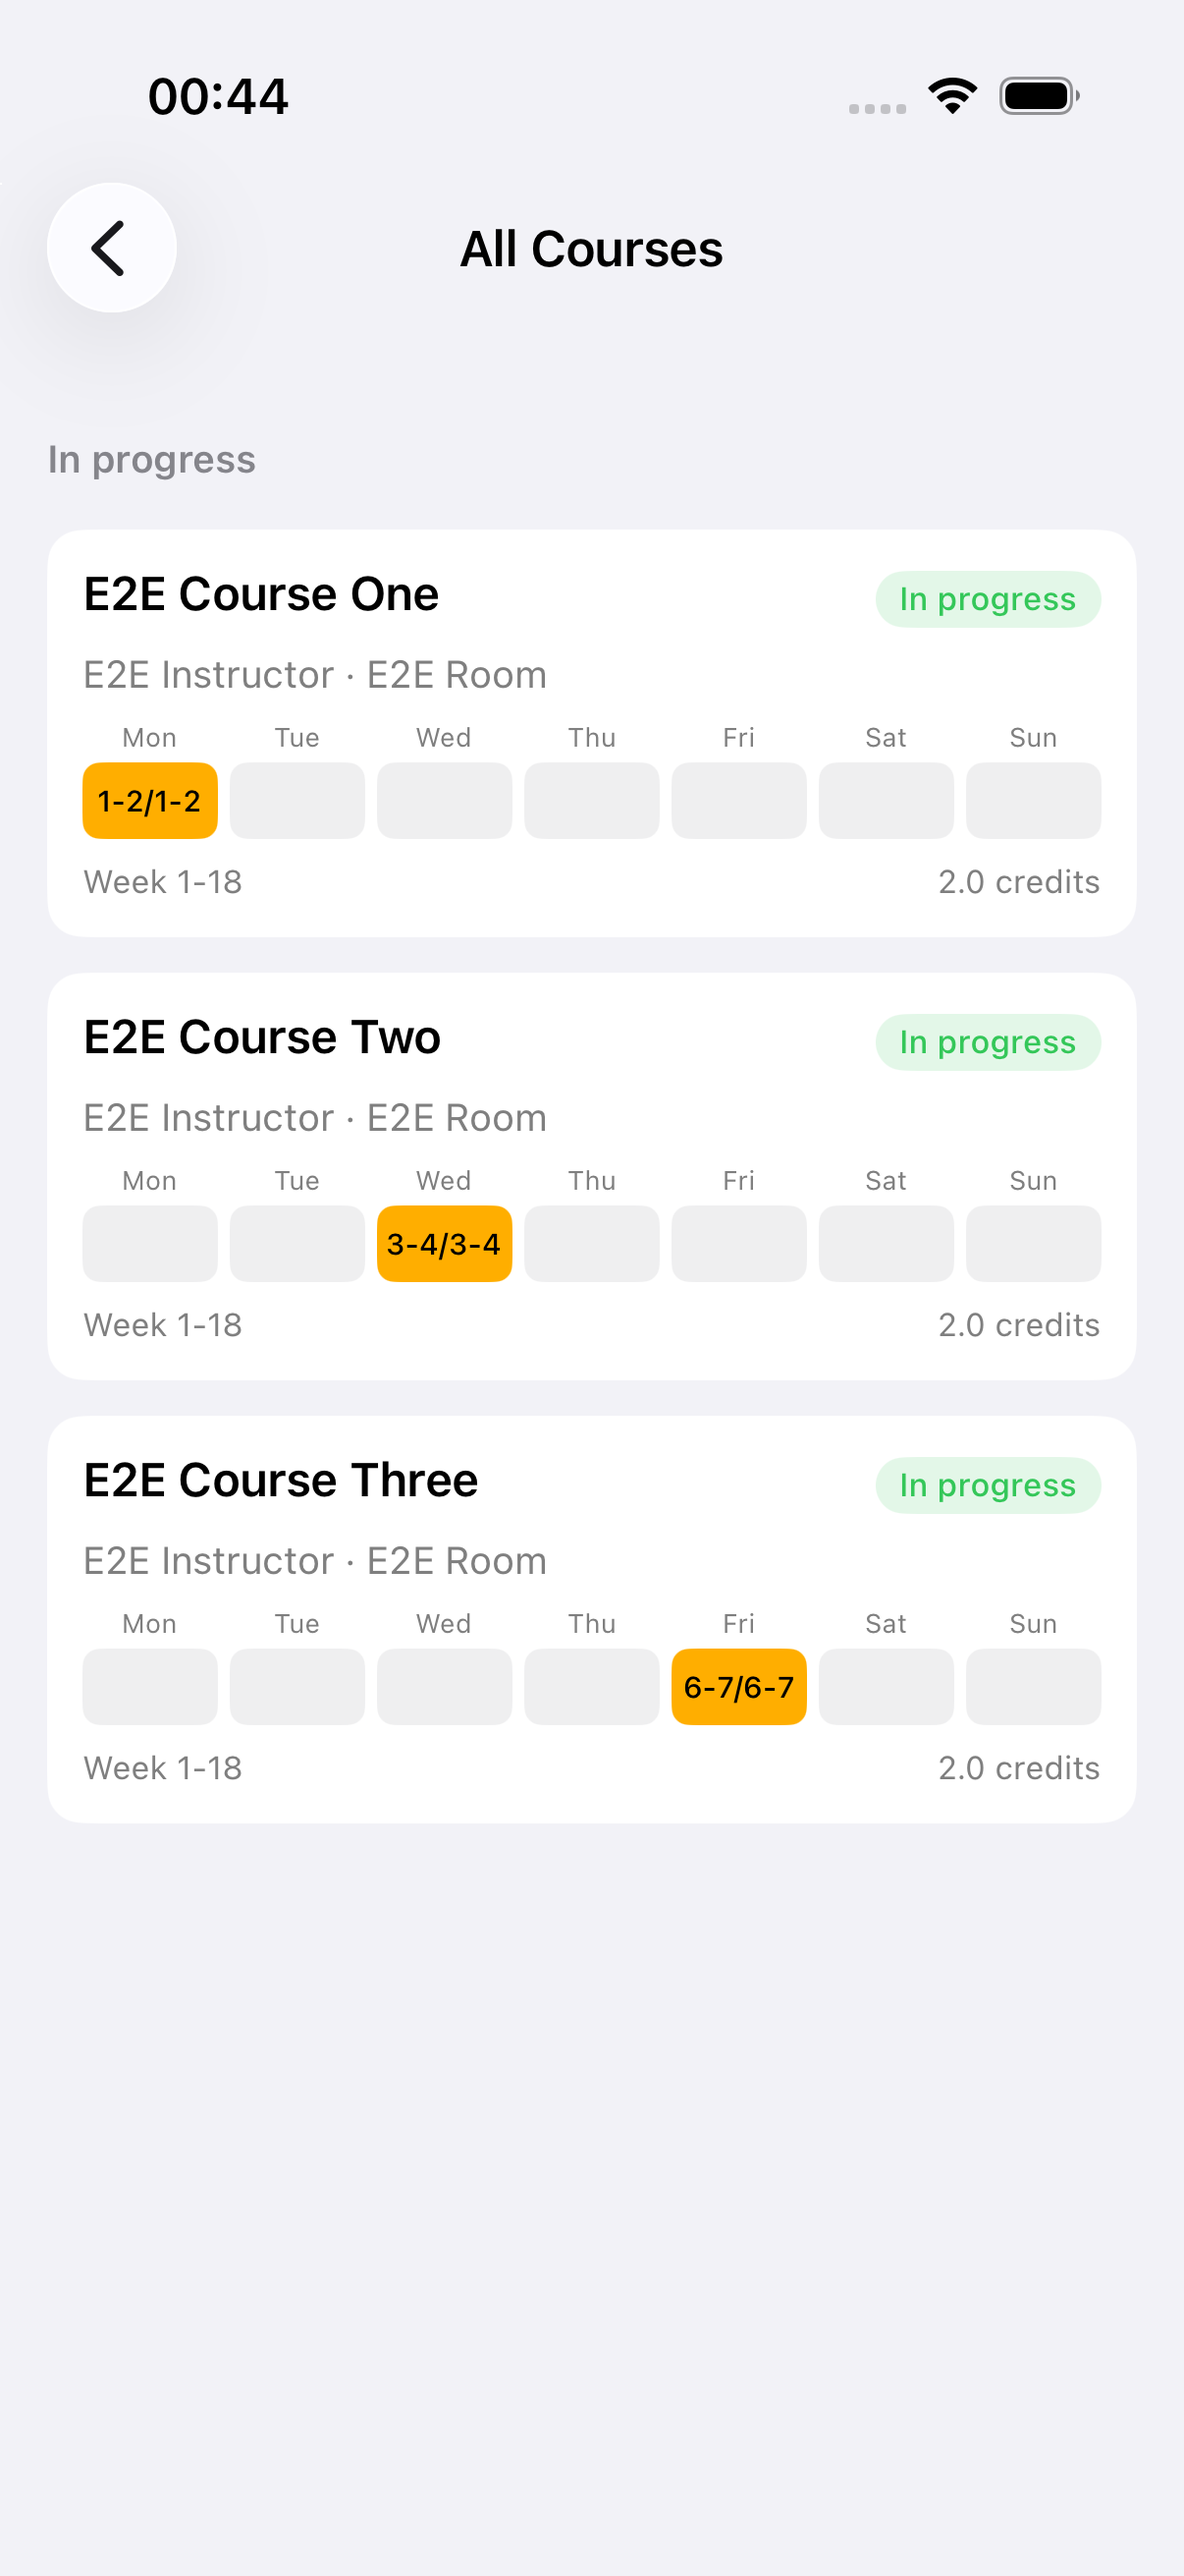
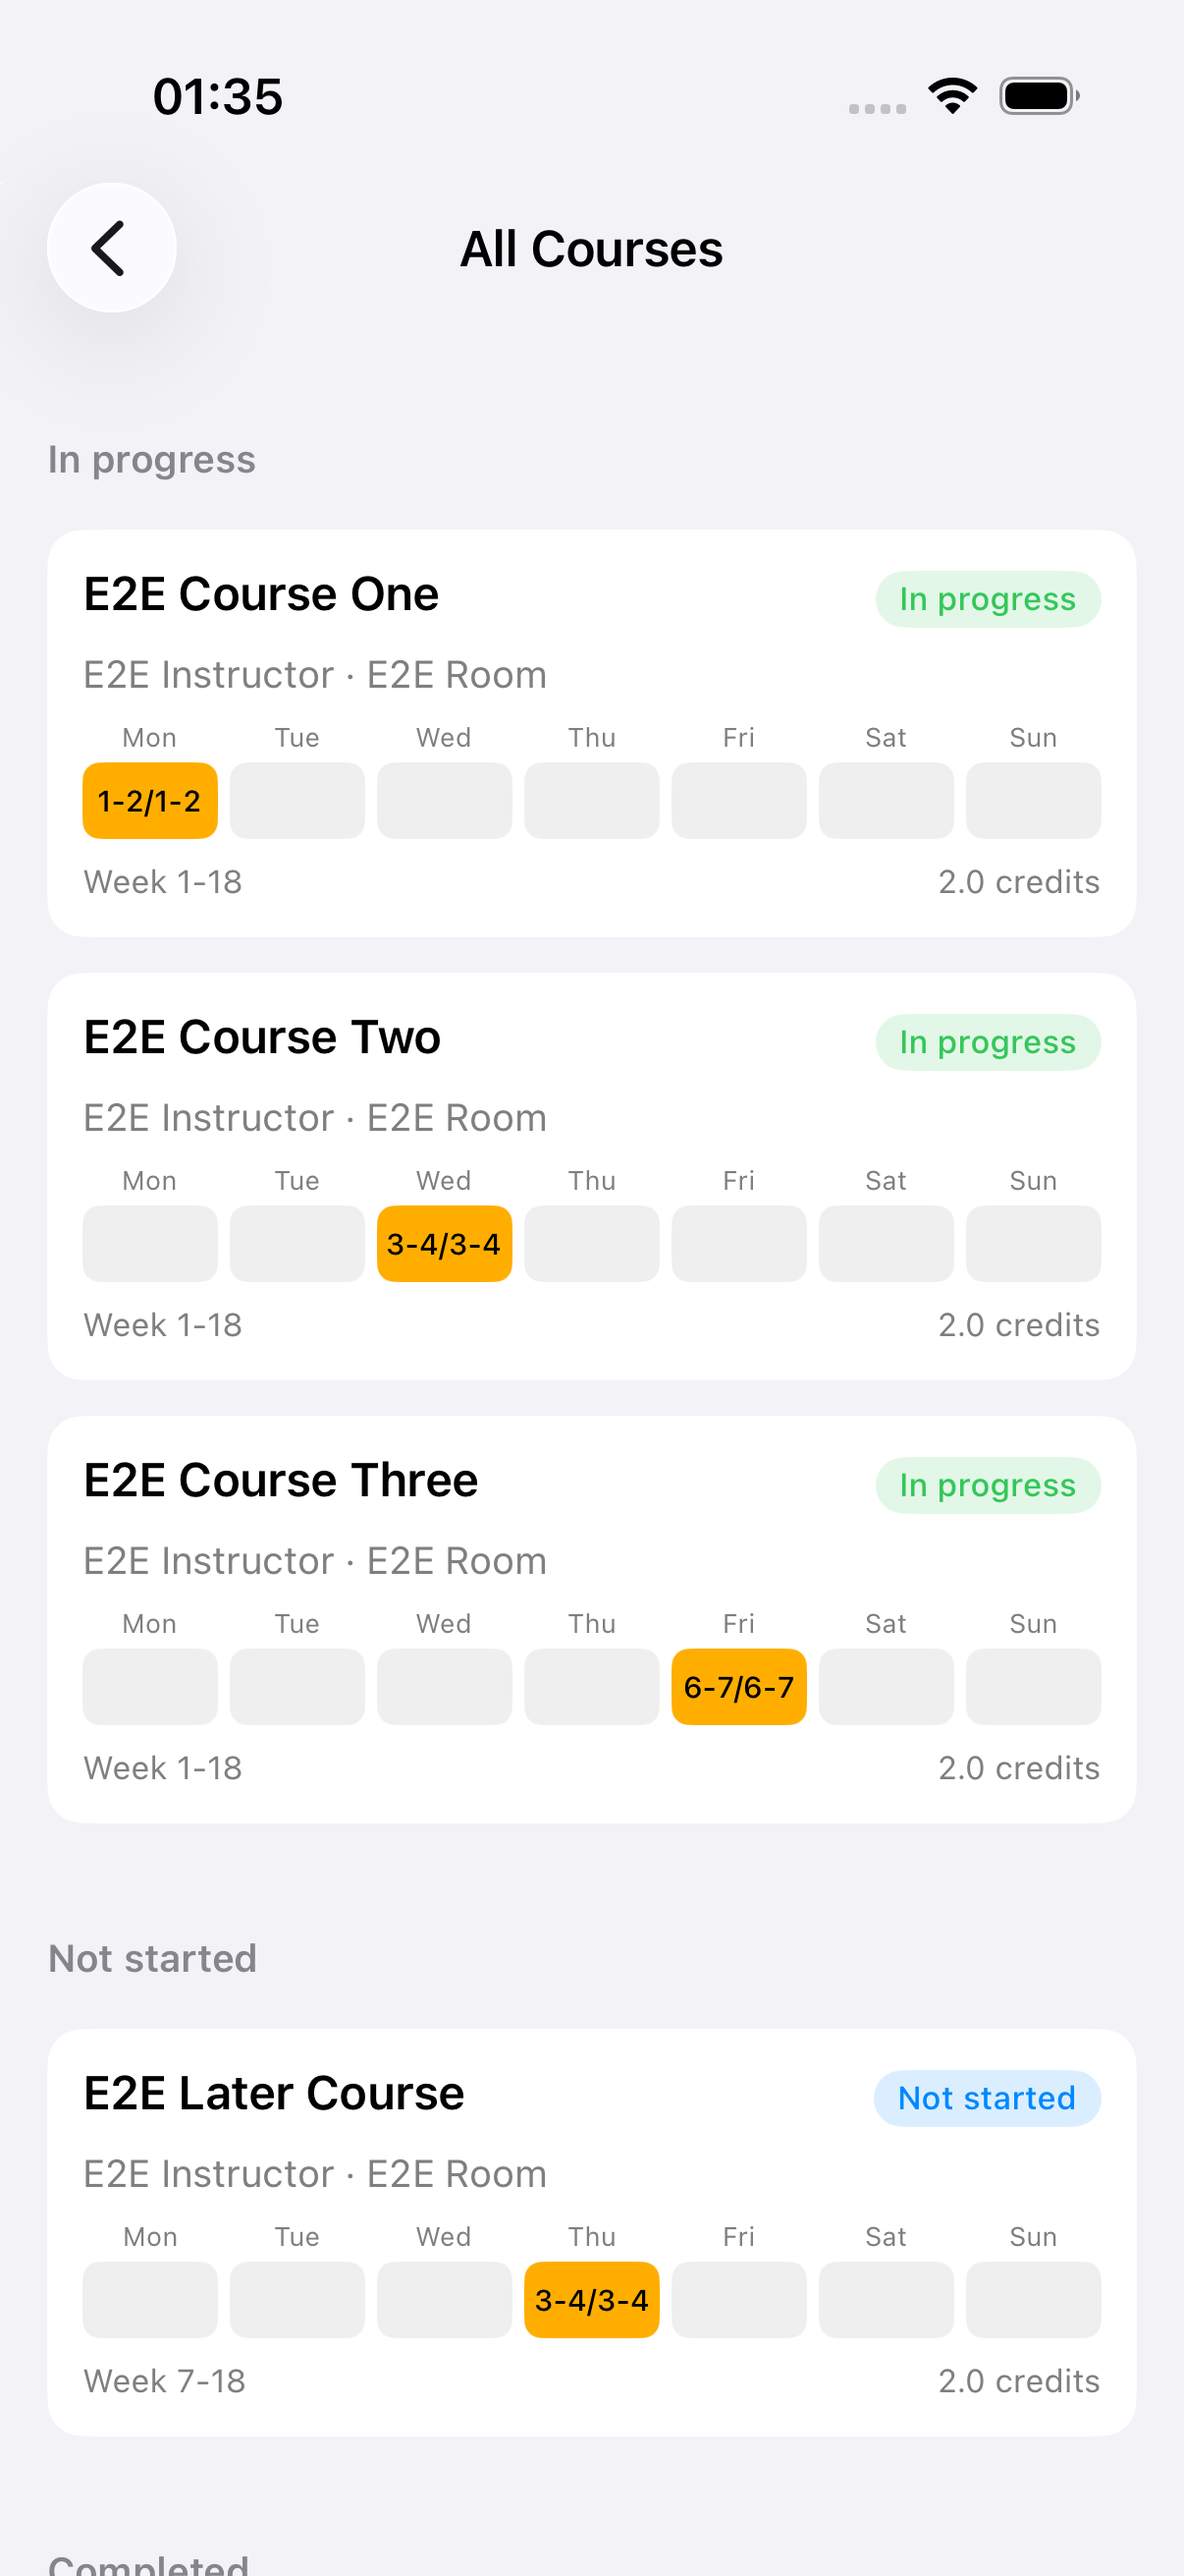
docs(tasks): add the iOS swipe-up before/after evidence
Workspace-Issue: whu-ham/ham-workspace#18

diff --git a/tasks/course-all-list-verification.md b/tasks/course-all-list-verification.md
@@ -56,18 +56,34 @@ Row content and order are identical: name + status badge on the first line, teac
 second, the seven weekday cells on the third (filled with the course colour where the course meets),
 and week range + credit on the fourth.
 
-### 4. The already-taken section (reached by scrolling / swiping up)
+### 4. Swiping up reveals the courses already taken — proven on both platforms
 
-![Already-taken section, Android](assets/all-course-list-android-completed.png)
+**iOS, before and after the swipe.** The case captures the page, asserts the already-taken course is
+*absent* before the gesture (`then(.showsNone([Seed.courseAlreadyTaken]))`) and *present* after it,
+then captures the page again.
 
-On Android the seeded data covers all three states, and this capture is taken after swiping up:
-进行中 is followed by 未开始 and then 已上过 last (`E2E Done Course`, weeks 1-3 of a term in week 4),
-which is the behaviour the requirement asks for.
+![iOS before and after the swipe](assets/parity-5-ios-swipe-before-after.png)
 
-The iOS E2E seed pins every seeded course to the current week, so iOS shows the in-progress section
-only — the section *order* on iOS is pinned by `CourseAllListViewModel.buildSections` (the same
-0/1/2 ordering as Android) rather than by a capture. This is the one parity item that is proven by
-code and by the Android capture, not by an iOS capture.
+**The same gesture on both platforms.** Left: iOS after swiping up. Right: Android after swiping up.
+
+![iOS and Android after the swipe](assets/parity-6-swipe-completed-ios-android.png)
+
+**The already-taken section at readable size.**
+
+![Already-taken section detail](assets/parity-7-completed-section-detail.png)
+
+How the iOS side is made possible: the shared E2E seed pins the term to the current Monday, which is
+week 1, where no course can be in the past. The suite now opts into `-e2e_courseTermWeeks 3`, which
+starts the seeded term three weeks ago and adds two seeded courses — one that ended before the week
+the app opens on (`E2E Done Course`), one that starts after it (`E2E Later Course`). Both sit on week
+ranges the opening week does not cover, so the grid every other suite reads is unchanged, and only
+this suite asks for them.
+
+| | iOS | Android |
+| --- | --- | --- |
+| Before the swipe | `E2E Done Course` not on screen (asserted) | `E2E Done Course` below the fold (asserted) |
+| Gesture | `when(.scrollUp)` — a drag from 75% to 35% of the window, repeated until the row appears | `performTouchInput { swipeUp() }`, repeated until the section appears |
+| After the swipe | `Completed` / 已上过 section with `E2E Done Course` | `Completed` / 已上过 section with `E2E Done Course` |
 
 ## Source captures
 
@@ -78,6 +94,8 @@ code and by the Android capture, not by an iOS capture.
 | `assets/all-course-list-ios.png` | iOS all-courses page (1206x2622) |
 | `assets/all-course-list-android-top.png` | Android all-courses page, top (1080x2400) |
 | `assets/all-course-list-android-completed.png` | Android all-courses page after swiping up (1080x2400) |
+| `assets/all-course-list-ios-before-swipe.png` | iOS all-courses page before the swipe (1206x2622) |
+| `assets/all-course-list-ios-after-swipe.png` | iOS all-courses page after the swipe (1206x2622) |
 
 ## Verification actually run
 
@@ -88,7 +106,7 @@ code and by the Android capture, not by an iOS capture.
 | Android JVM unit tests | `./gradlew :feature:course:testDebugUnitTest` | BUILD SUCCESSFUL — 7 new cases + existing pass |
 | Android E2E on emulator (Medium_Phone AVD, API 37) | `adb shell am instrument -w -e class com.nowcent.ham.e2e.suite.course.CourseAllCourseListE2eTest com.nowcent.ham.test/com.nowcent.ham.HiltTestRunner` | `OK (3 tests)`; `connectedGithubDebugAndroidTest`: 3 run / 0 failed |
 | iOS app build | `xcodebuild -workspace Ham/Ham.xcworkspace -scheme "Ham (iOS)" -configuration Debug -destination 'platform=iOS Simulator,name=iPhone 17 Pro' build` | ** BUILD SUCCEEDED ** |
-| iOS E2E on simulator (iPhone 17 Pro) | `xcodebuild -workspace Ham/Ham.xcworkspace -scheme "Tests iOS" -configuration Debug -destination 'platform=iOS Simulator,name=iPhone 17 Pro' -only-testing:Tests\ iOS/HamE2ECourseAllListTests test` | ** TEST SUCCEEDED ** — 3 run / 3 passed / 0 failed (61.5s) |
+| iOS E2E on simulator (iPhone 17 Pro) | `xcodebuild -workspace Ham/Ham.xcworkspace -scheme "Tests iOS" -configuration Debug -destination 'platform=iOS Simulator,name=iPhone 17 Pro' -only-testing:Tests\ iOS/HamE2ECourseAllListTests test` | ** TEST SUCCEEDED ** — 3 run / 3 passed / 0 failed (66.2s), including `testSwipingUpRevealsTheCoursesAlreadyTaken` |
 
 Both clients were started from `ham-workspace` pinned at `origin/main` (2c070fec) with every
 submodule at its latest `origin/main`: ham-android 1b68e365, ham-ios 42e32927, ham-backend-go
